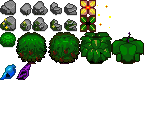
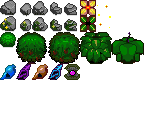
Added additional shells to consider.

Changed region(s): [[0.2222, 0.5, 0.5556, 0.625]]

diff --git a/js/world.js b/js/world.js
@@ -112,9 +112,9 @@ class World {
                 layers: {
                     l1: {
                         fg: [   
-                            "0o00","0000","0000","0000","0000","0000","000s","0000",
-                            "000s","0000","0000","0000","0000","0000","0000","0000",
-                            "0000","0000","0c02","000r","0000","000o","0000","0000",
+                            "0o00","0000","000s","0000","0000","0000","000s","0000",
+                            "000s","0000","0000","0000","0000","0000","0000","000s",
+                            "000s","000s","0c02","000r","0000","000o","0000","0000",
                             "0c01","0000","0000","000o","000s","0000","0000","0o05",
                         ],
                     },

diff --git a/js/sparkAssets.js b/js/sparkAssets.js
@@ -64,8 +64,11 @@ class SparkAssets {
                 ]},
                 { tag: "seaShell",      cls: "VarSprite", variations: [
                      { x: 16*0, y: 16*4, width: 16, height: 16 },
-                     { x: 16*1, y: 16*4, width: 16, height: 16 }
-                ]},
+                     { x: 16*1, y: 16*4, width: 16, height: 16 },
+                     { x: 16*2, y: 16*4, width: 16, height: 16 },
+                     { x: 16*3, y: 16*4, width: 16, height: 16 },
+                     { x: 16*4, y: 16*4, width: 16, height: 16 }
+                ]}
             ]},
 
             { src: "img/flowerpot1.png", loader: "Sheet", refs: [
